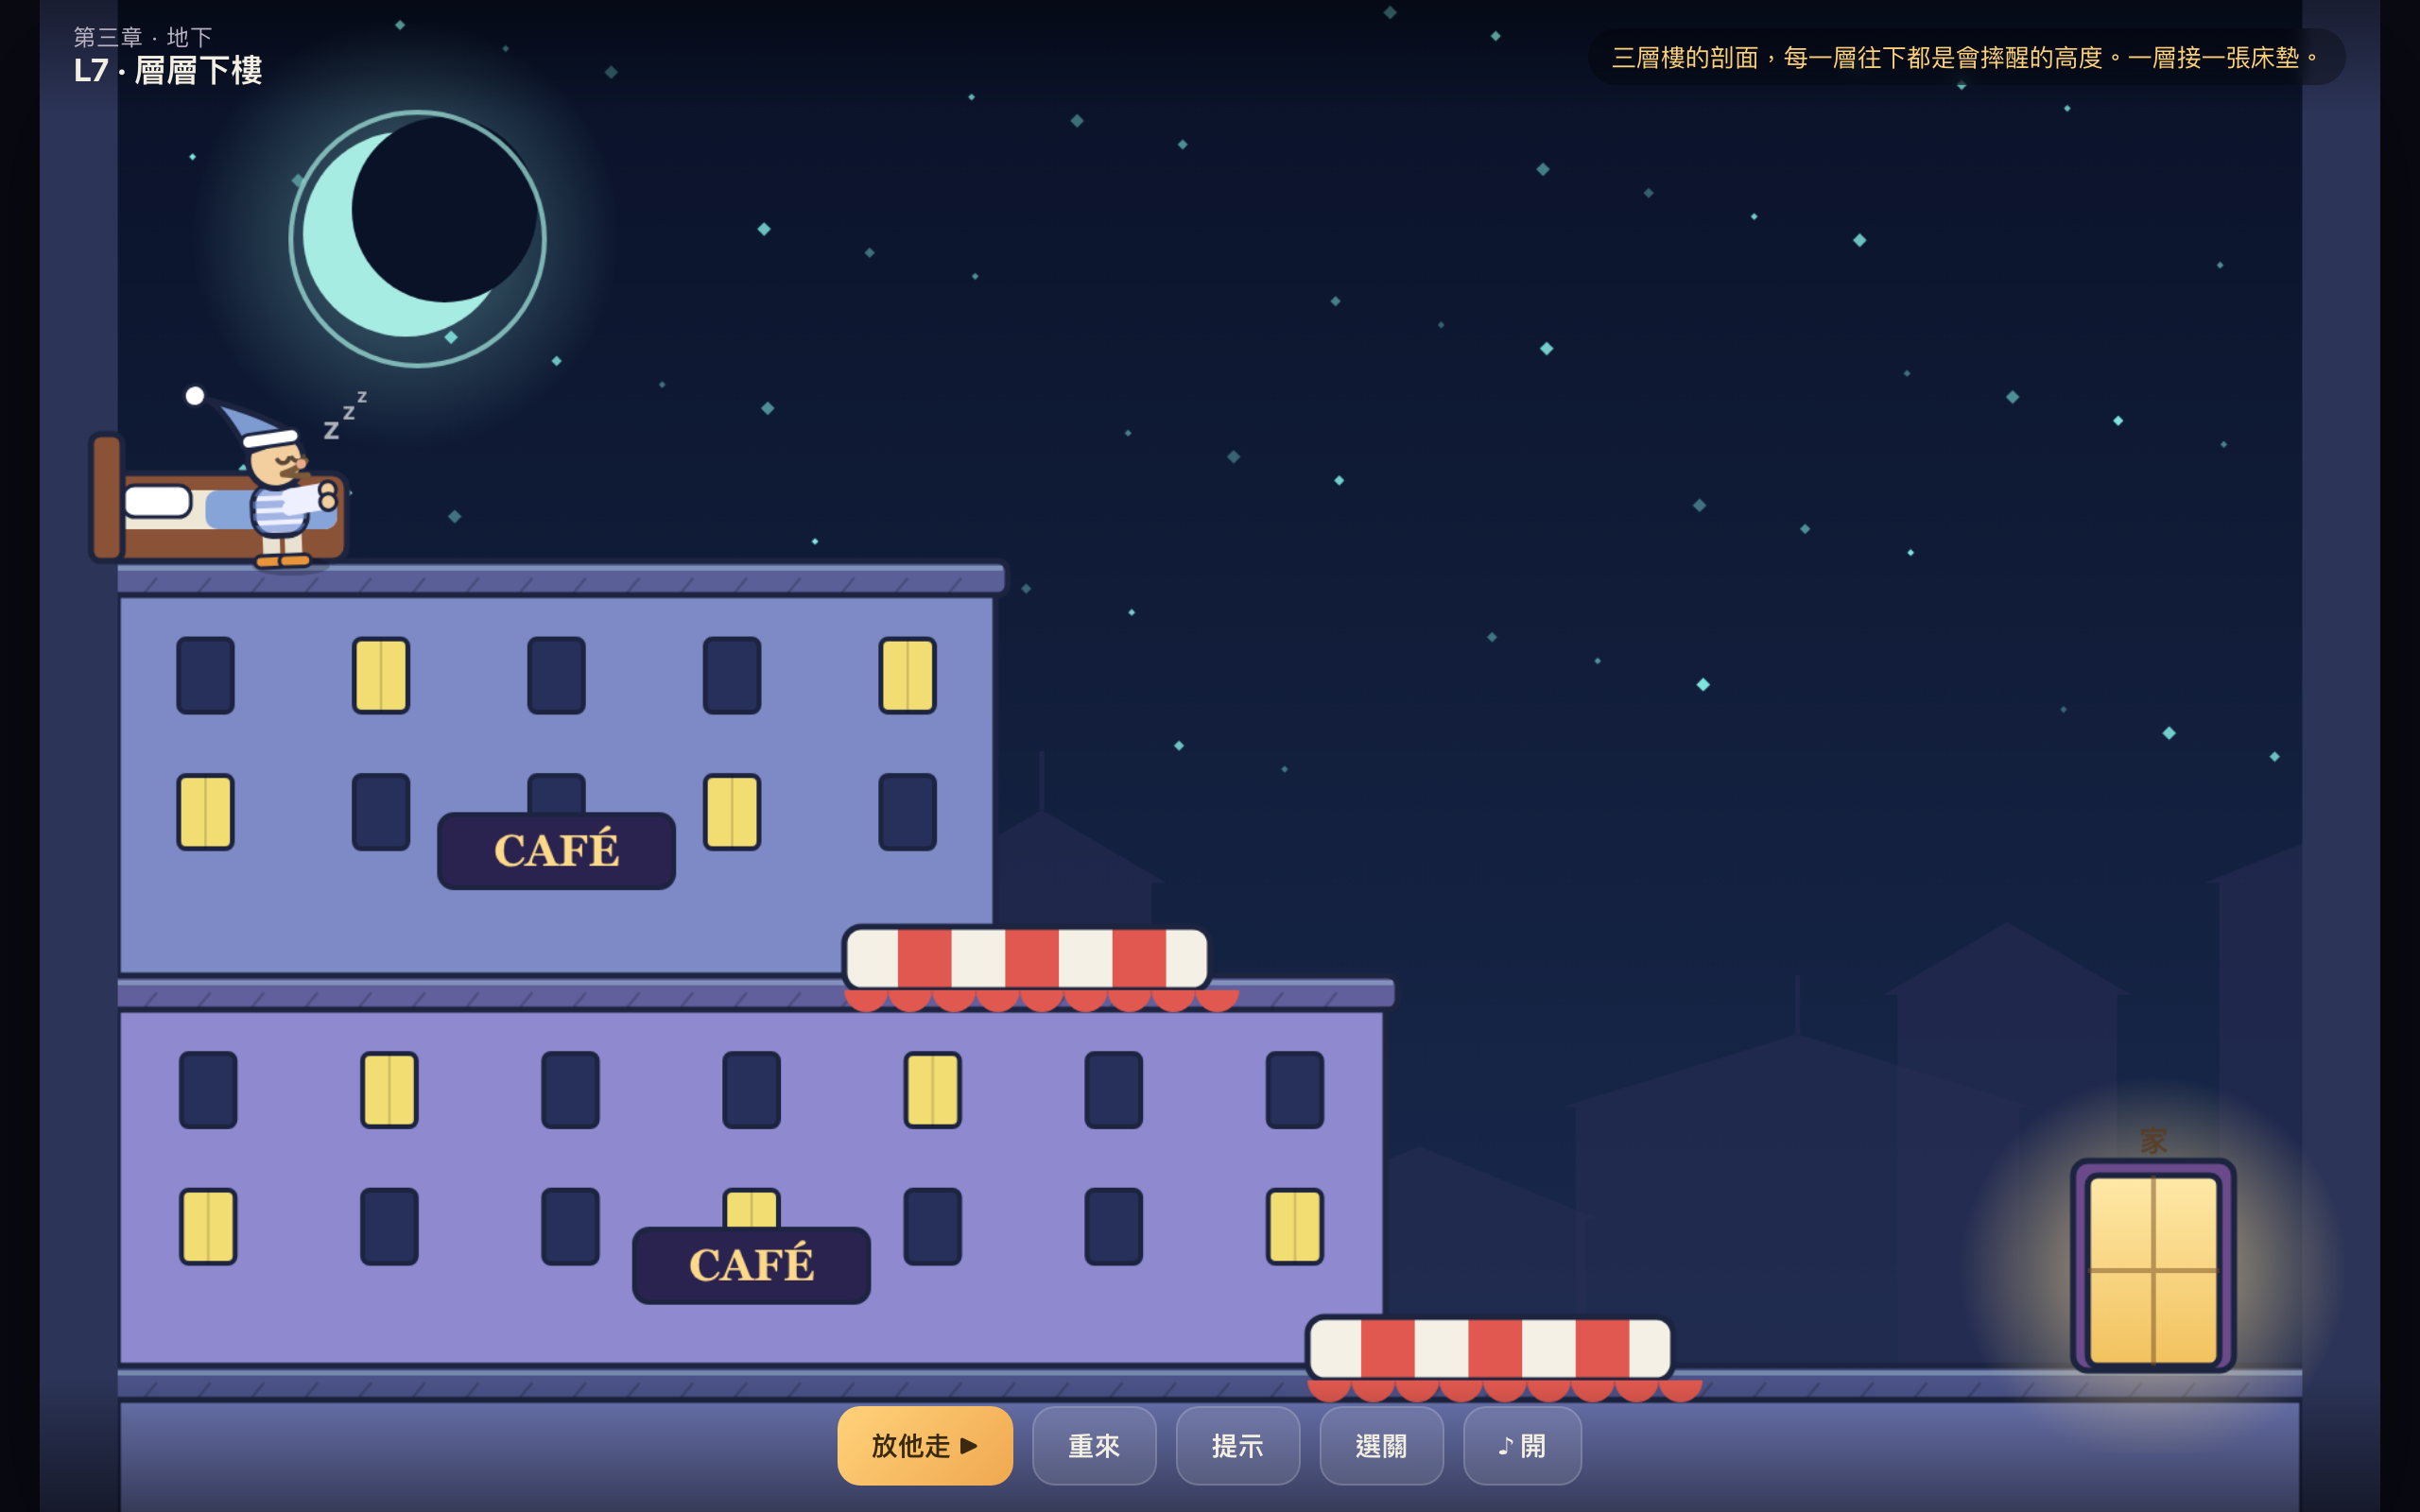
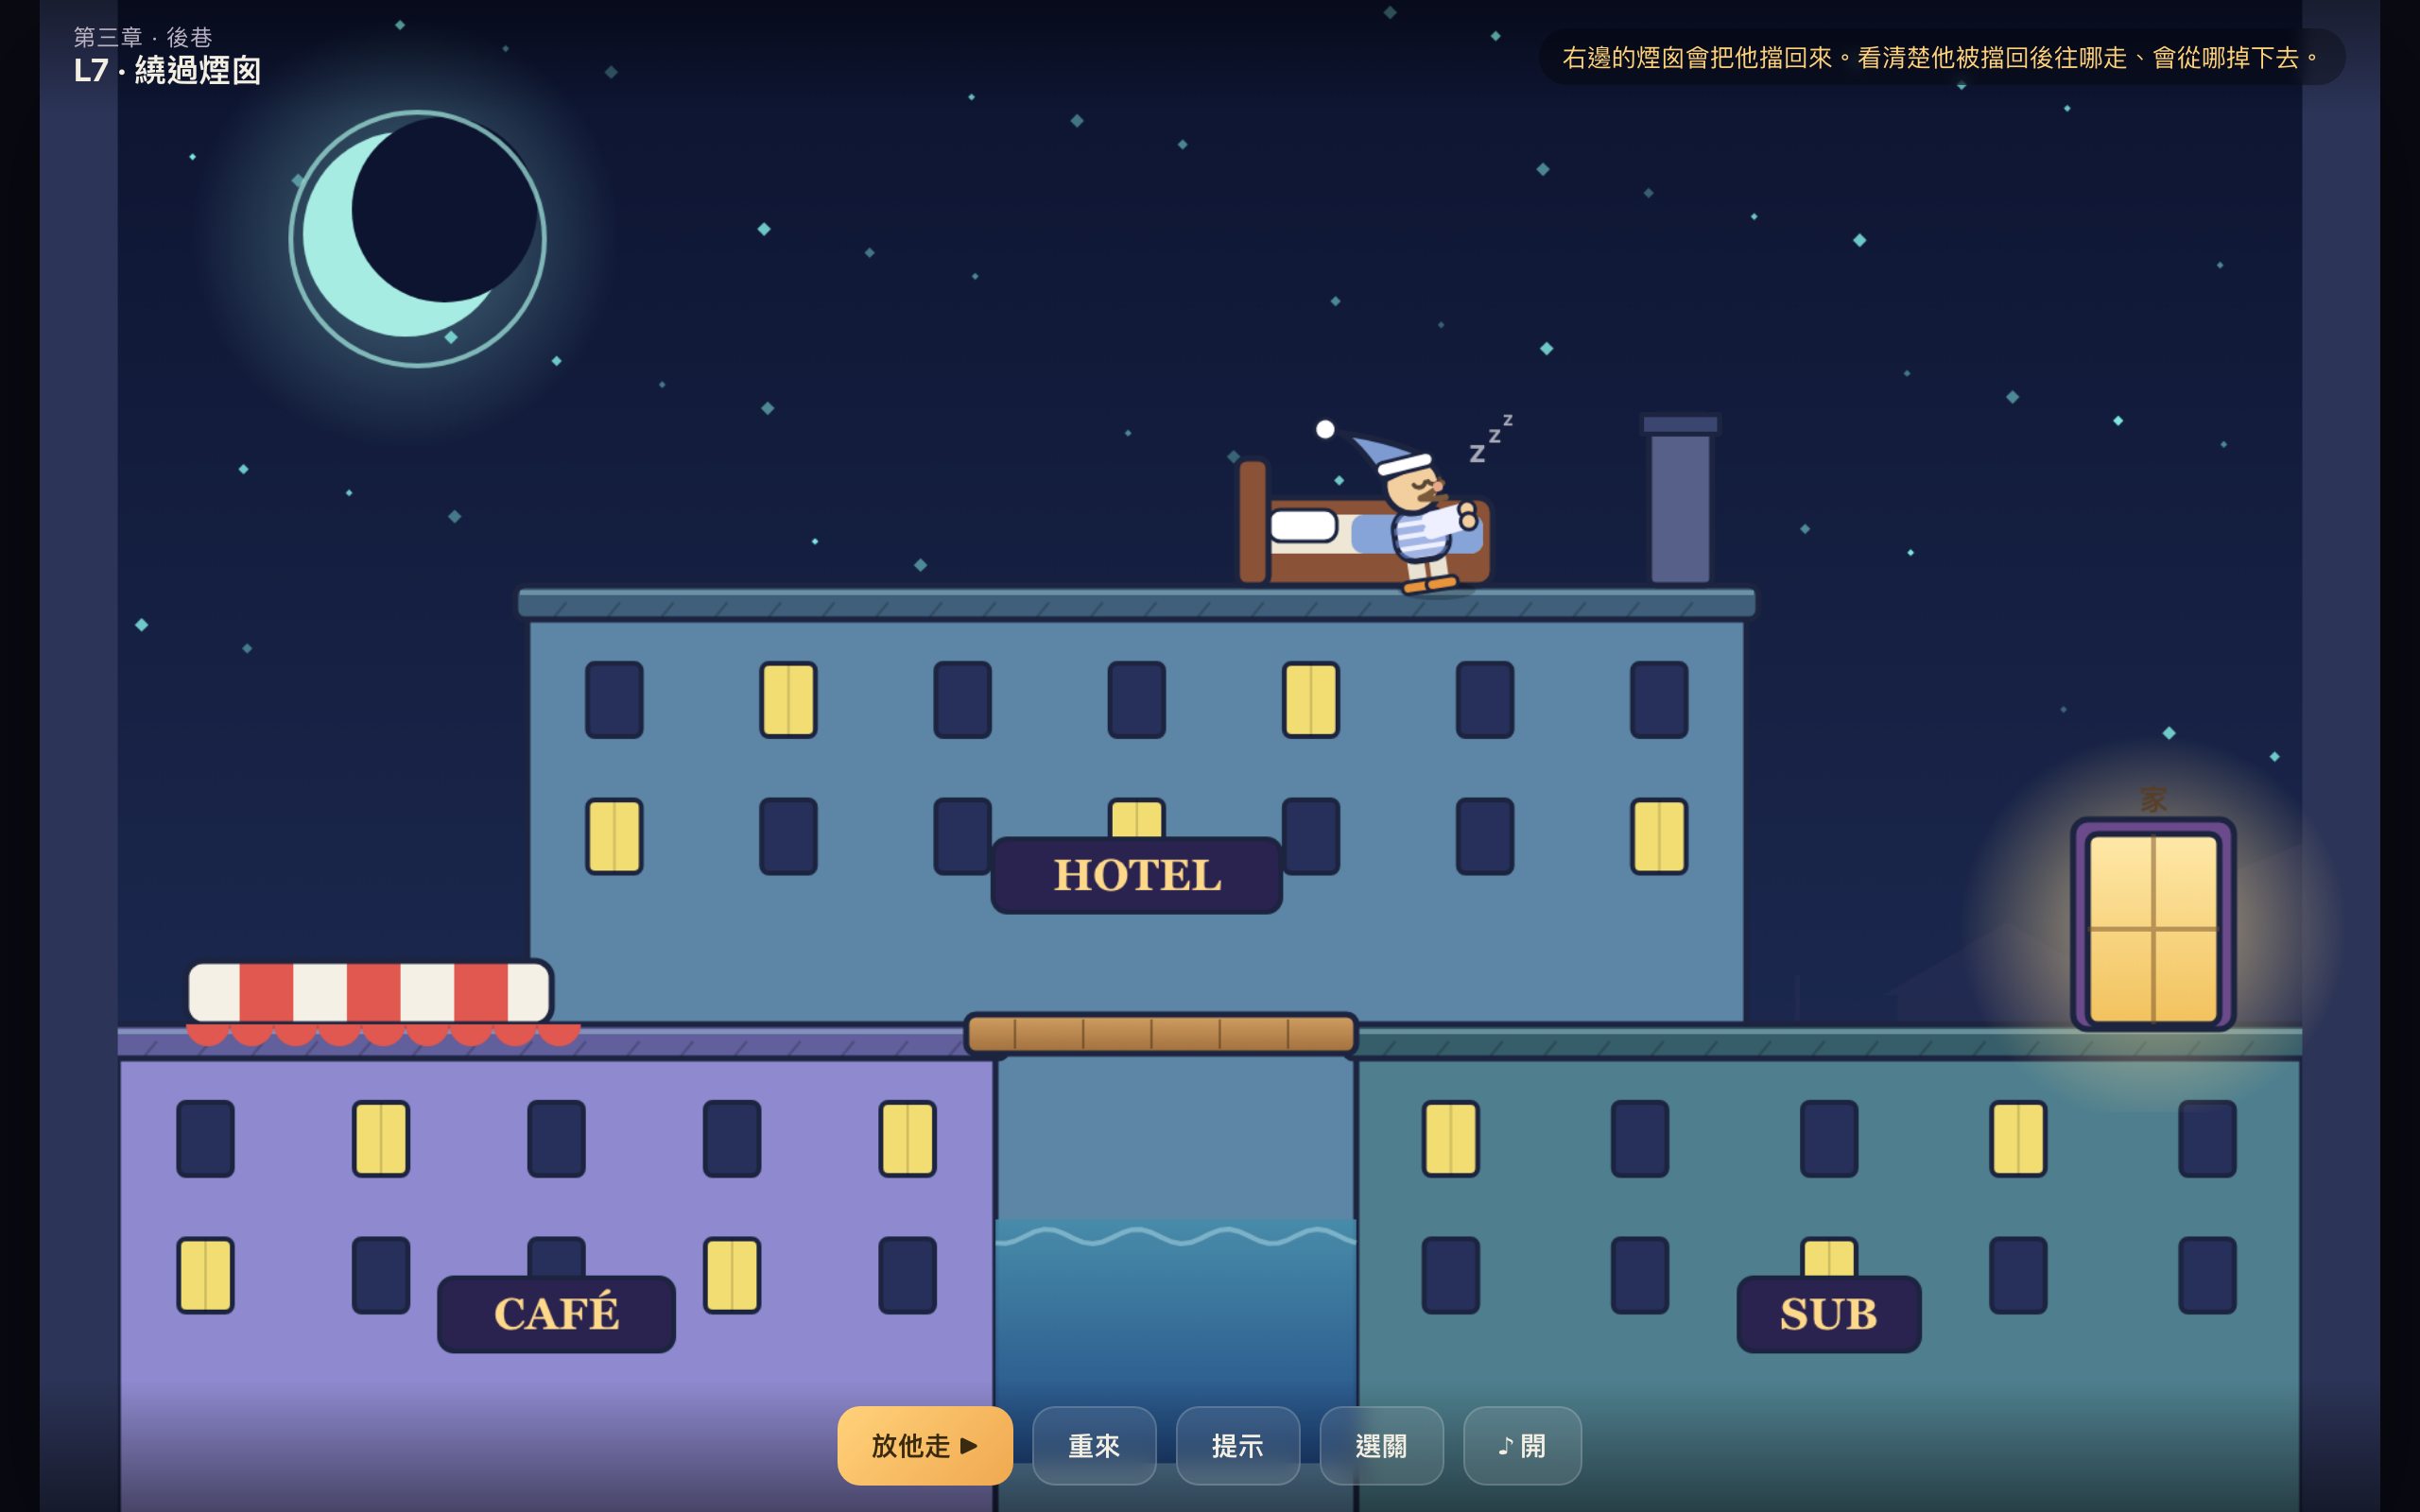
feat(sleepwalker): v5 曲折屋頂關卡（煙囪轉身/之字路線/陷阱道具），10 關
依 Kevin 要求做「更燒腦、更曲折」的關卡：
- 全部改為屋頂場景的之字路線：用煙囪(固定)/箱子讓他轉彎、用落下方向做繞路
- 前 4 關各教一個機關；後 6 關繞路、組合多道具、加傳送門
- L9 引入「陷阱道具」(decoy)：看似有用其實多餘，逼玩家判斷該動哪個
- 共 10 關，全部通過 solve.js「可解+沒擺不能過+每個(真)道具必要」；容差 >=14px
- headless 瀏覽器整合測零錯誤
- 修正：用過的雨棚會擋路(出口改放其左側)、陷阱彈簧停在傳送門出口會誤彈(移除該陷阱)

diff --git a/day-001-sleepwalker/js/levels.js b/day-001-sleepwalker/js/levels.js
@@ -1,15 +1,16 @@
 /*
- * 夢遊先生 Mr. Sleepwalker — 關卡資料（封閉房子剖面版）
+ * 夢遊先生 Mr. Sleepwalker — 關卡資料（曲折屋頂版）
  *
- * 設計原則（取自對原作難度來源的研究 + 修正破綻）：
- *  - 玩家放他走之前先擺好道具，放走後鎖定 → 不能「拖一塊板子當移動地板送到底」。
- *  - 封閉幾何：牆 + 天花板 + 樓層，把空間關住，主角只能沿走廊/從特定洞口下樓，不能繞。
- *  - 道具配額剛好夠用，且每個都「不可省」（test/solve.js 會驗證沒擺/缺一個就過不了關）。
- *  - 主角不能往上爬高過 16px 的台階；要上樓只能靠彈簧。箱子用於墊落差(往下)或當牆讓他轉身。
+ * 設計原則：
+ *  - 即時可動，但道具被先生碰到就固定 → 不能拖一塊板子推到底。
+ *  - 用煙囪/箱子讓他轉彎、用落下方向做之字路線 → 路徑要研究、不好預測。
+ *  - 道具配額剛好、每個都必要（test/solve.js 驗「可解+沒擺不能過+每個道具必要」）。
+ *  - 後段加「陷阱道具」decoy（看似有用、其實不需要），逼玩家判斷該動哪個。
+ *  - 主角不能往上爬高過 16px；要上樓只能彈簧。箱子用於墊落差(往下)或當牆讓他轉身。
  *
- * 物件 type：plank(木板) / box(箱子) / spring(彈簧床) / mattress(床墊，軟著陸)
- * 危險 kind：water(水) / spike(尖刺)
- * portals：成對傳送門（管道），走進去從 link 的另一個出來；exitFacing 設定冒出後面向。
+ * type：plank/box/spring/mattress（decoy:true = 陷阱道具，不列入 solution）
+ * kind：water/spike（spike 一律沉在缺口底，木板鋪在上方安全）
+ * portals：成對管道；exitFacing 設定冒出後面向。
  */
 (function (root) {
   'use strict';
@@ -21,97 +22,83 @@
   function world() { return { w: W, h: H }; }
 
   var LEVELS = [
-    // 1 —— 臥室：搭一塊板過洞
+    // 1 —— 教學：鋪木板過巷
     {
-      id: 1, name: '半夜・起床', chapter: '第一章 · 臥室樓', theme: 'room',
-      story: '夢遊先生從床上爬起，慢慢往房門走。地板上有個洞——先擺好木板再放他走。',
-      hint: '把木板拖到地板缺口上鋪平；放他走之後就不能再動道具了。',
+      id: 1, name: '半夜・起床', chapter: '第一章 · 出門', theme: 'room',
+      story: '夢遊先生爬起來走向屋頂。兩棟樓之間有道巷子——鋪塊板讓他走過去。',
+      hint: '把木板拖到缺口上鋪平。可以邊走邊擺，但被他碰到就固定了。',
       world: world(), startFacing: 1, bed: { x: 110, y: 470 },
-      solids: [LW, RW,
-        { x: 32, y: 130, w: 896, h: 16, kind: 'wall' },
-        { x: 32, y: 470, w: 360, h: 20 },
-        { x: 520, y: 470, w: 408, h: 20 }],
-      hazards: [{ x: 392, y: 560, w: 128, h: 60, kind: 'water' }],
+      solids: [LW, RW, { x: 32, y: 470, w: 360, h: 20 }, { x: 520, y: 470, w: 408, h: 20 }],
+      hazards: [{ x: 392, y: 540, w: 128, h: 80, kind: 'water' }],
       movables: [{ id: 'plank', type: 'plank', x: 700, y: 454, w: 150, h: 16 }],
       exit: { x: 840, y: 392, w: 54, h: 78 },
       solution: [{ id: 'plank', x: 376, y: 462 }]
     },
 
-    // 2 —— 床墊：跳下一層樓
+    // 2 —— 教學：雨棚軟著陸
     {
-      id: 2, name: '下一層樓', chapter: '第一章 · 臥室樓', theme: 'room',
-      story: '門外是直接通到樓下的落差，太高了。鋪個軟的接住他。',
-      hint: '床墊能接住任何高度的墜落。鋪在他落下的位置（會稍微往前飄）。',
+      id: 2, name: '跳下雨棚', chapter: '第一章 · 出門', theme: 'roof',
+      story: '下一棟樓矮一截，直接跳下去會摔醒。鋪個軟的接住他。',
+      hint: '床墊（條紋雨棚）能接住任何高度的墜落。鋪在他落下的位置（會稍微往前飄）。',
       world: world(), startFacing: 1, bed: { x: 110, y: 300 },
-      solids: [LW, RW,
-        { x: 32, y: 110, w: 896, h: 16, kind: 'wall' },
-        { x: 32, y: 300, w: 520, h: 20 },
-        { x: 32, y: 480, w: 896, h: 20 }],
+      solids: [LW, RW, { x: 32, y: 300, w: 520, h: 20 }, { x: 32, y: 480, w: 896, h: 20 }],
       hazards: [],
-      movables: [{ id: 'mat', type: 'mattress', x: 760, y: 460, w: 150, h: 26 }],
+      movables: [{ id: 'mat', type: 'mattress', x: 760, y: 454, w: 150, h: 26 }],
       exit: { x: 840, y: 402, w: 54, h: 78 },
-      solution: [{ id: 'mat', x: 500, y: 460 }]
+      solution: [{ id: 'mat', x: 500, y: 454 }]
     },
 
-    // 3 —— 箱子當牆讓他轉身
+    // 3 —— 教學：箱子當牆讓他轉身
     {
-      id: 3, name: '轉個彎', chapter: '第一章 · 臥室樓', theme: 'room',
-      story: '門在他背後的左邊，他卻往右走、右邊是樓梯井。讓他回頭。',
+      id: 3, name: '轉個彎', chapter: '第一章 · 出門', theme: 'room',
+      story: '家在他背後的左邊，他卻往右走、右邊是深巷。讓他回頭。',
       hint: '主角撞到比他高的東西會轉身。把箱子擋在他右邊。',
       world: world(), startFacing: 1, bed: { x: 380, y: 470 },
-      solids: [LW, RW,
-        { x: 32, y: 130, w: 896, h: 16, kind: 'wall' },
-        { x: 32, y: 470, w: 520, h: 20 }],
+      solids: [LW, RW, { x: 32, y: 470, w: 520, h: 20 }],
       hazards: [{ x: 552, y: 540, w: 376, h: 80, kind: 'water' }],
       movables: [{ id: 'box', type: 'box', x: 150, y: 378, w: 56, h: 92 }],
       exit: { x: 46, y: 392, w: 54, h: 78 },
       solution: [{ id: 'box', x: 470, y: 378 }]
     },
 
-    // 4 —— 箱子墊落差 + 木板過缺口
+    // 4 —— 教學：彈簧床往上彈
     {
-      id: 4, name: '樓梯間', chapter: '第二章 · 樓梯間', theme: 'roof',
-      story: '先下一層樓的落差，再跨過樓梯間的缺口，兩樣道具都要用上。',
-      hint: '箱子墊在落差中間踩著下去，木板補後面的缺口。',
-      world: world(), startFacing: 1, bed: { x: 110, y: 300 },
-      solids: [LW, RW,
-        { x: 32, y: 110, w: 896, h: 16, kind: 'wall' },
-        { x: 32, y: 300, w: 400, h: 20 },
-        { x: 32, y: 480, w: 500, h: 20 },
-        { x: 660, y: 480, w: 268, h: 20 }],
-      hazards: [{ x: 532, y: 560, w: 128, h: 60, kind: 'water' }],
-      movables: [
-        { id: 'box', type: 'box', x: 120, y: 396, w: 84, h: 84 },
-        { id: 'plank', type: 'plank', x: 760, y: 464, w: 160, h: 16 }],
-      exit: { x: 840, y: 402, w: 54, h: 78 },
-      solution: [{ id: 'box', x: 420, y: 396 }, { id: 'plank', x: 520, y: 476 }]
-    },
-
-    // 5 —— 彈簧床：往上彈一層
-    {
-      id: 5, name: '往上一層', chapter: '第二章 · 樓梯間', theme: 'roof',
-      story: '出口在樓上，他爬不上去。彈簧床能把他往上彈穿過天花板的洞。',
-      hint: '把彈簧床放在天花板洞的正下方，他踩到會往上彈、落到上層。',
+      id: 4, name: '彈上高樓', chapter: '第一章 · 出門', theme: 'roof',
+      story: '家在更高的那棟樓，他跳不上去。用彈簧床把他往上彈。',
+      hint: '把彈簧床放在高樓缺口的正下方，他踩到會往上前方彈、落到高樓。',
       world: world(), startFacing: 1, bed: { x: 90, y: 480 },
-      solids: [LW, RW,
-        { x: 32, y: 90, w: 896, h: 16, kind: 'wall' },
-        { x: 32, y: 480, w: 896, h: 20 },
-        { x: 32, y: 300, w: 360, h: 20 },
-        { x: 520, y: 300, w: 408, h: 20 }],
+      solids: [LW, RW, { x: 32, y: 480, w: 896, h: 20 }, { x: 32, y: 300, w: 360, h: 20 }, { x: 520, y: 300, w: 408, h: 20 }],
       hazards: [],
       movables: [{ id: 'spring', type: 'spring', x: 760, y: 466, w: 64, h: 14 }],
       exit: { x: 840, y: 222, w: 54, h: 78 },
       solution: [{ id: 'spring', x: 426, y: 466 }]
     },
 
-    // 6 —— 管道(傳送門) + 木板 + 床墊
+    // 5 —— 之字下樓：兩張雨棚接兩次墜落
     {
-      id: 6, name: '通風管道', chapter: '第二章 · 樓梯間', theme: 'sky',
-      story: '這層是死路，牆上的通風管能通到隔壁封死的房間；但進管前有缺口、出管後會墜落。',
-      hint: '先用木板過缺口走進管道；管道另一頭很高，用床墊接住掉下來的他。',
+      id: 5, name: '之字下樓', chapter: '第二章 · 屋頂', theme: 'sky',
+      story: '他會一路往左、一層層往下掉。算準兩次墜落，各鋪一張雨棚接住。',
+      hint: '他往左走、掉下去再往左。兩道落差各放一張床墊（會往落下方向飄一點）。',
+      world: world(), startFacing: -1, bed: { x: 840, y: 200 },
+      solids: [LW, RW,
+        { x: 520, y: 200, w: 360, h: 20 },
+        { x: 300, y: 360, w: 360, h: 20 },
+        { x: 32, y: 520, w: 500, h: 20 }],
+      hazards: [],
+      movables: [
+        { id: 'm1', type: 'mattress', x: 700, y: 334, w: 150, h: 26 },
+        { id: 'm2', type: 'mattress', x: 750, y: 494, w: 150, h: 26 }],
+      exit: { x: 60, y: 442, w: 54, h: 78 },
+      solution: [{ id: 'm1', x: 420, y: 334 }, { id: 'm2', x: 180, y: 494 }]
+    },
+
+    // 6 —— 通風管道：木板過巷 → 鑽管 → 雨棚接墜落
+    {
+      id: 6, name: '通風管道', chapter: '第二章 · 屋頂', theme: 'sky',
+      story: '這頭是死路，牆上的通風管通到另一棟封死的樓；進管前有巷、出管後會墜落。',
+      hint: '先用木板過巷走進管道；管道另一頭很高，用床墊接住掉下來的他。',
       world: world(), startFacing: 1, bed: { x: 90, y: 480 },
       solids: [LW, RW,
-        { x: 32, y: 110, w: 896, h: 16, kind: 'wall' },
         { x: 32, y: 480, w: 300, h: 20 },
         { x: 420, y: 480, w: 132, h: 20 },
         { x: 600, y: 300, w: 18, h: 240, kind: 'wall' },
@@ -122,82 +109,95 @@
         { id: 'b', x: 720, y: 222, w: 44, h: 78, link: 'a', exitFacing: 1, color: PC }],
       movables: [
         { id: 'plank', type: 'plank', x: 80, y: 464, w: 130, h: 16 },
-        { id: 'mat', type: 'mattress', x: 760, y: 520, w: 150, h: 26 }],
+        { id: 'mat', type: 'mattress', x: 760, y: 514, w: 150, h: 26 }],
       exit: { x: 860, y: 462, w: 54, h: 78 },
-      solution: [{ id: 'plank', x: 312, y: 476 }, { id: 'mat', x: 700, y: 520 }]
+      solution: [{ id: 'plank', x: 312, y: 476 }, { id: 'mat', x: 700, y: 514 }]
     },
 
-    // 7 —— 兩張床墊：連下兩層
+    // 7 —— 撞煙囪回頭 + 接墜落 + 過巷
     {
-      id: 7, name: '層層下樓', chapter: '第三章 · 地下', theme: 'sky',
-      story: '三層樓的剖面，每一層往下都是會摔醒的高度。一層接一張床墊。',
-      hint: '兩道落差各鋪一張床墊接住他。',
-      world: world(), startFacing: 1, bed: { x: 90, y: 230 },
+      id: 7, name: '繞過煙囪', chapter: '第三章 · 後巷', theme: 'roof',
+      story: '右邊的煙囪會把他擋回來。看清楚他被擋回後往哪走、會從哪掉下去。',
+      hint: '他撞煙囪會轉頭往左、從左緣掉下去：先用床墊接住，再用木板補後面的水溝。',
+      world: world(), startFacing: 1, bed: { x: 560, y: 240 },
       solids: [LW, RW,
-        { x: 32, y: 90, w: 896, h: 16, kind: 'wall' },
-        { x: 32, y: 230, w: 360, h: 20 },
-        { x: 32, y: 400, w: 520, h: 20 },
-        { x: 32, y: 560, w: 896, h: 20 }],
-      hazards: [],
+        { x: 200, y: 240, w: 500, h: 20 },
+        { x: 660, y: 170, w: 26, h: 70, kind: 'wall' },
+        { x: 32, y: 420, w: 360, h: 20 },
+        { x: 540, y: 420, w: 388, h: 20 }],
+      hazards: [{ x: 392, y: 500, w: 148, h: 100, kind: 'water' }],
       movables: [
-        { id: 'm1', type: 'mattress', x: 700, y: 380, w: 150, h: 26 },
-        { id: 'm2', type: 'mattress', x: 760, y: 540, w: 150, h: 26 }],
-      exit: { x: 840, y: 482, w: 54, h: 78 },
-      solution: [{ id: 'm1', x: 330, y: 380 }, { id: 'm2', x: 520, y: 540 }]
+        { id: 'mat', type: 'mattress', x: 720, y: 394, w: 150, h: 26 },
+        { id: 'plank', type: 'plank', x: 760, y: 404, w: 160, h: 16 }],
+      exit: { x: 840, y: 342, w: 54, h: 78 },
+      solution: [{ id: 'mat', x: 60, y: 394 }, { id: 'plank', x: 380, y: 416 }]
     },
 
-    // 8 —— 床墊 + 木板 + 箱子：三段下樓
+    // 8 —— 彈簧飛越尖刺 + 過水溝
     {
-      id: 8, name: '三段下樓', chapter: '第三章 · 地下', theme: 'dawn',
-      story: '一段比一段刁鑽：先軟著陸、再跨缺口、最後墊著下到地面。三樣道具剛好用完。',
-      hint: '床墊接第一段墜落、木板補中間缺口、箱子墊最後一段落差。',
-      world: world(), startFacing: 1, bed: { x: 90, y: 200 },
+      id: 8, name: '飛越尖刺', chapter: '第三章 · 後巷', theme: 'sky',
+      story: '一道尖刺、一道水溝。彈簧把他往前彈過尖刺，落地後再補水溝。',
+      hint: '彈簧床放在尖刺前讓他飛過去；落到對面後用木板補水溝。',
+      world: world(), startFacing: 1, bed: { x: 90, y: 460 },
       solids: [LW, RW,
-        { x: 32, y: 80, w: 896, h: 16, kind: 'wall' },
-        { x: 32, y: 200, w: 300, h: 20 },
-        { x: 32, y: 380, w: 420, h: 20 },
-        { x: 600, y: 380, w: 120, h: 20 },
-        { x: 32, y: 540, w: 896, h: 20 }],
-      hazards: [{ x: 452, y: 560, w: 148, h: 60, kind: 'water' }],
-      movables: [
-        { id: 'mat', type: 'mattress', x: 760, y: 360, w: 150, h: 26 },
-        { id: 'plank', type: 'plank', x: 80, y: 524, w: 160, h: 16 },
-        { id: 'box', type: 'box', x: 150, y: 456, w: 84, h: 84 }],
-      exit: { x: 840, y: 462, w: 54, h: 78 },
-      solution: [
-        { id: 'mat', x: 300, y: 360 },
-        { id: 'plank', x: 440, y: 376 },
-        { id: 'box', x: 700, y: 456 }]
-    },
-
-    // 9 —— 終章：床墊 + 木板 + 木板 + 管道
-    {
-      id: 9, name: '回到地面', chapter: '第四章 · 大門', theme: 'dawn',
-      story: '天快亮了，最後最長的一段：軟著陸、跨過尖刺、鑽管道到另一邊、再跨過水溝回到大門。',
-      hint: '床墊接第一段、木板鋪過尖刺、走進管道、最後一塊木板補水溝。',
-      world: world(), startFacing: 1, bed: { x: 90, y: 160 },
-      solids: [LW, RW,
-        { x: 32, y: 60, w: 896, h: 16, kind: 'wall' },
-        { x: 32, y: 160, w: 300, h: 20 },
-        { x: 32, y: 340, w: 520, h: 20 },
-        { x: 680, y: 340, w: 248, h: 20 },
-        { x: 32, y: 540, w: 400, h: 20 },
-        { x: 560, y: 540, w: 368, h: 20 }],
+        { x: 32, y: 460, w: 340, h: 20 },
+        { x: 500, y: 460, w: 220, h: 20 },
+        { x: 820, y: 460, w: 108, h: 20 }],
       hazards: [
-        { x: 552, y: 460, w: 128, h: 30, kind: 'spike' },
-        { x: 432, y: 560, w: 128, h: 60, kind: 'water' }],
-      portals: [
-        { id: 'a', x: 880, y: 262, w: 44, h: 78, link: 'b', color: PC2 },
-        { id: 'b', x: 60, y: 462, w: 44, h: 78, link: 'a', exitFacing: 1, color: PC2 }],
+        { x: 372, y: 520, w: 128, h: 40, kind: 'spike' },
+        { x: 720, y: 540, w: 100, h: 60, kind: 'water' }],
       movables: [
-        { id: 'mat', type: 'mattress', x: 760, y: 320, w: 150, h: 26 },
-        { id: 'p1', type: 'plank', x: 720, y: 324, w: 160, h: 16 },
-        { id: 'p2', type: 'plank', x: 80, y: 524, w: 160, h: 16 }],
-      exit: { x: 860, y: 462, w: 54, h: 78 },
+        { id: 'spring', type: 'spring', x: 600, y: 446, w: 64, h: 14 },
+        { id: 'plank', type: 'plank', x: 40, y: 444, w: 120, h: 16 }],
+      exit: { x: 846, y: 382, w: 54, h: 78 },
+      solution: [{ id: 'spring', x: 300, y: 446 }, { id: 'plank', x: 700, y: 456 }]
+    },
+
+    // 9 —— 鑽管道到封死的家（含陷阱道具）
+    {
+      id: 9, name: '繞道回家', chapter: '第三章 · 後巷', theme: 'dawn',
+      story: '他往左掉下去，下水道口能繞到封死的家。但別被沒用的道具騙了。',
+      hint: '只需要用床墊接住那一次墜落，再走進管道就到家了——有個道具是多餘的。',
+      world: world(), startFacing: -1, bed: { x: 820, y: 240 },
+      solids: [LW, RW,
+        { x: 500, y: 240, w: 360, h: 20 },
+        { x: 300, y: 420, w: 400, h: 20 },
+        { x: 32, y: 520, w: 260, h: 20 }],
+      hazards: [],
+      portals: [
+        { id: 'a', x: 320, y: 342, w: 44, h: 78, link: 'b', color: PC2 },
+        { id: 'b', x: 60, y: 442, w: 44, h: 78, link: 'a', exitFacing: 1, color: PC2 }],
+      movables: [
+        { id: 'mat', type: 'mattress', x: 700, y: 394, w: 150, h: 26 },
+        { id: 'decoyBox', type: 'box', x: 612, y: 336, w: 84, h: 84, decoy: true }],
+      exit: { x: 220, y: 442, w: 54, h: 78 },
+      solution: [{ id: 'mat', x: 400, y: 394 }]
+    },
+
+    // 10 —— 終章：之字長路 + 過巷 + 鑽管 + 高處落下（含陷阱道具）
+    {
+      id: 10, name: '回到床上', chapter: '第四章 · 天亮前', theme: 'dawn',
+      story: '天快亮了，最長的一段：往左掉、過巷、鑽管、再從高處落下回到床。看清楚路再動手。',
+      hint: '雨棚接第一次墜落、木板補巷、走進管道；管道另一頭很高，再用第二張雨棚接住。',
+      world: world(), startFacing: -1, bed: { x: 820, y: 160 },
+      solids: [LW, RW,
+        { x: 540, y: 160, w: 320, h: 20 },
+        { x: 320, y: 320, w: 340, h: 20 },
+        { x: 32, y: 320, w: 200, h: 20 },
+        { x: 560, y: 480, w: 368, h: 20 }],
+      hazards: [],
+      portals: [
+        { id: 'a', x: 44, y: 242, w: 44, h: 78, link: 'b', color: PC },
+        { id: 'b', x: 600, y: 242, w: 44, h: 78, link: 'a', exitFacing: 1, color: PC }],
+      movables: [
+        { id: 'm1', type: 'mattress', x: 700, y: 294, w: 150, h: 26 },
+        { id: 'plank', type: 'plank', x: 740, y: 304, w: 160, h: 16 },
+        { id: 'm2', type: 'mattress', x: 760, y: 454, w: 150, h: 26 }],
+      exit: { x: 866, y: 402, w: 54, h: 78 },
       solution: [
-        { id: 'mat', x: 300, y: 320 },
-        { id: 'p1', x: 540, y: 336 },
-        { id: 'p2', x: 420, y: 536 }]
+        { id: 'm1', x: 420, y: 294 },
+        { id: 'plank', x: 222, y: 316 },
+        { id: 'm2', x: 560, y: 454 }]
     }
   ];
 

diff --git a/day-001-sleepwalker/README.md b/day-001-sleepwalker/README.md
@@ -47,17 +47,20 @@ open index.html        # macOS
 
 ## 關卡
 
-四個章節、共 **9 關**，是夜色城市屋頂的側視場景，引導夢遊先生從高處的家一路安全下到地面、再回到家。難度循序漸進、後段組合多道具與傳送門：
+四個章節、共 **10 關**，是夜色城市屋頂的側視場景。前 4 關各教一個機關，後 6 關開始繞路、組合、加入「之字路線」與陷阱道具：
 
-1. 半夜・起床（鋪木板過洞）
-2. 下一層樓（床墊軟著陸）
+1. 半夜・起床（鋪木板過巷）
+2. 跳下雨棚（雨棚軟著陸）
 3. 轉個彎（用箱子當牆讓他轉身）
-4. 樓梯間（箱子墊落差 ＋ 木板過缺口）
-5. 往上一層（彈簧床往上彈穿天花板的洞）
-6. 通風管道（木板過缺口 → 鑽管道 → 床墊接住墜落）
-7. 層層下樓（兩張床墊連下兩層）
-8. 三段下樓（床墊 ＋ 木板 ＋ 箱子）
-9. 回到地面（終章：床墊 ＋ 木板 ＋ 木板 ＋ 管道，最長的一段）
+4. 彈上高樓（彈簧往上前方彈）
+5. 之字下樓（往左連掉兩層，兩張雨棚各接一次）
+6. 通風管道（木板過巷 → 鑽管 → 雨棚接住高處墜落）
+7. 繞過煙囪（撞煙囪回頭 → 雨棚接墜落 → 木板過水溝）
+8. 飛越尖刺（彈簧飛過尖刺 → 木板過水溝）
+9. 繞道回家（鑽管道到封死的家；**有個道具是多餘的陷阱**，要判斷）
+10. 回到床上（終章：之字長路 → 過巷 → 鑽管 → 高處落下，最長的一段）
+
+場景裡的**煙囪**是固定機關：先生撞到會轉身——很多關得看清楚他被擋回後往哪走、會從哪一邊掉下去，才知道該把道具放哪。
 
 > 經過研究發現：原作其實**不是封閉房屋，而是露天屋頂/街景的側視全景**，它難的原因是「規則的不寬容」（不能控制角色、物件有時效、路線唯一、無存檔）。
 > 本作**忠實復刻核心母題**（自動行走、不能直控、靠擺物件鋪路），並改用「**封閉房子剖面 + 道具配額**」這套對現代玩家更友善、但一樣燒腦的方式重新詮釋，不是逐關照搬原作。
@@ -89,7 +92,7 @@ day-001-sleepwalker/
 物理引擎是純運算，所以可在 Node 直接驗證——不用真的手動玩每一關：
 
 ```bash
-node test/solve.js     # 每關：可解 + 沒擺不能過 + 每個道具都不可省 → 9/9 PASS
+node test/solve.js     # 每關：可解 + 沒擺不能過 + 每個道具都不可省 → 10/10 PASS
 node test/robust.js    # 物件偏移多少還能過 → 每關最小容差 ≥ 14px
 ```
 

diff --git a/README.md b/README.md
@@ -8,7 +8,7 @@
 
 | Day | 專案 | 說明 | 連結 |
 |:--:|:--|:--|:--|
-| 001 | 夢遊先生 Mr. Sleepwalker | 致敬 1999 年 Sarbakan《Good Night Mr. Snoozleberg》的物理解謎遊戲：在封閉的房子剖面裡擺好物件、用傳送門做立體路線，引導夢遊的睡衣先生從頂樓安全下到地面大門。9 關、道具配額解謎、純 Canvas、lounge jazz 配樂、零依賴。 | [day-001-sleepwalker](day-001-sleepwalker/) |
+| 001 | 夢遊先生 Mr. Sleepwalker | 致敬 1999 年 Sarbakan《Good Night Mr. Snoozleberg》的物理解謎遊戲：手繪卡通夜色屋頂，移動屋頂上的物件（碰到就固定）幫夢遊的睡衣先生鋪出之字安全路線回家。10 關、煙囪轉身/傳送門/陷阱道具、純 Canvas、lounge jazz、零依賴。 | [day-001-sleepwalker](day-001-sleepwalker/) |
 
 ## 玩法慣例
 